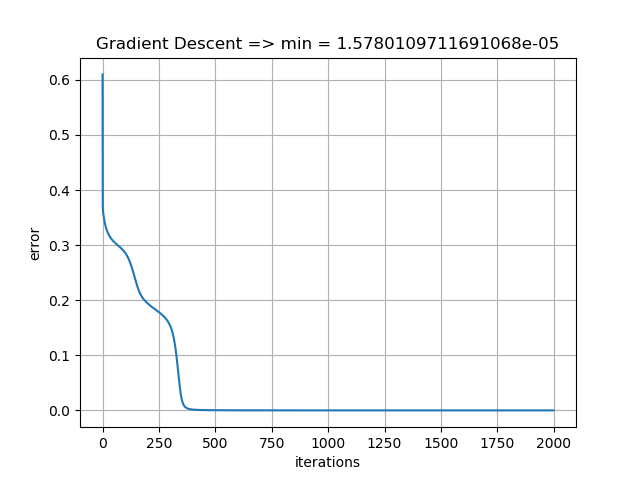
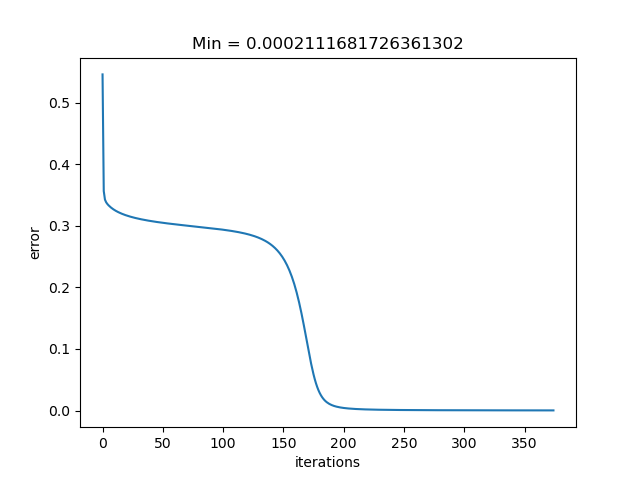
Uploaded

diff --git a/activations.py b/activations.py
@@ -1,6 +1,7 @@
 import numpy as np
 
 # activation functions and their derivative
+
 def tanh(x):
     return np.tanh(x)
 
@@ -8,7 +9,7 @@ def tanh_prime(x):
     return 1 - np.tanh(x) ** 2
 
 def sigmoid(x):
-    return 1 / (1 + np.exp(-x))
+    return 1 / 1 + np.exp(-x)
 
 def sigmoid_prime(x):
     return x * (1 - x)
@@ -18,31 +19,3 @@ def gauss(x):
 
 def gauss_prime(x):
    return -np.exp(-x)
-    
-
-
-
-def softmax(x):
-    e_x = np.exp(x - np.max(x))
-    return e_x / e_x.sum(axis=0)
-
-def Softmax(x):
-    """Compute softmax values for each sets of scores in x."""
-    return np.exp(x) / np.sum(np.exp(x), axis=0)
-
-def _softmax(z):
-    return (np.exp(z.T) / np.sum(np.exp(z), axis=1)).T
-
-def softmax_prime(z):
-    """Computes the gradient of the softmax function.
-    z: (T, 1) array of input values where the gradient is computed. T is the
-       number of output classes.
-    Returns D (T, T) the Jacobian matrix of softmax(z) at the given z. D[i, j]
-    is DjSi - the partial derivative of Si w.r.t. input j.
-    """
-    Sz = softmax(z)
-    # -SjSi can be computed using an outer product between Sz and itself. Then
-    # we add back Si for the i=j cases by adding a diagonal matrix with the
-    # values of Si on its diagonal.
-    D = -np.outer(Sz, Sz) + np.diag(Sz.flatten())
-    return D

diff --git a/utils.py b/utils.py
@@ -1,0 +1,13 @@
+# Print iterations progress
+def ProgressBar (
+    iteration, total, prefix = '', 
+    suffix = '', decimals = 1, 
+    length = 10, fill = '█', 
+    printEnd = "\r"):
+    percent = ("{0:." + str(decimals) + "f}").format(100 * (iteration / float(total)))
+    filledLength = int(length * iteration // total)
+    bar = fill * filledLength + ' ' * (length - filledLength)
+    print('\r %s |%s| %s%% -- err => %.7s' % (prefix, bar, percent, suffix), end = printEnd)
+    # Print New Line on Complete
+    if iteration == total: 
+        print()

diff --git a/run.py b/run.py
@@ -1,8 +1,6 @@
 import numpy as np
 from network import Network
-from layer import Layer, ActivationLayer
-from activations import *
-from losses import mse, mse_prime
+from base import *
 
 # training data
 xtrain = np.array([[0,0], [0,1], [1,0], [1,1]])
@@ -17,7 +15,7 @@ net.add(ActivationLayer(tanh, tanh_prime))
 
 # train
 net.loss_parameter(mse, mse_prime)
-net.train(xtrain, ytrain, epochs=2000, learning_rate=0.1, graphic=True)
+net.train(xtrain, ytrain, epochs=375, learning_rate=0.1, graphic=True)
 
 # test
 net.predict(xtrain)

diff --git a/base.py b/base.py
@@ -1,0 +1,3 @@
+from layer import Layer, ActivationLayer
+from activations import *
+from losses import mse, mse_prime

diff --git a/neurons.py b/neurons.py
@@ -1,4 +1,3 @@
-
 # Base class
 class Neurons:
 

diff --git a/README.md b/README.md
@@ -1,6 +1,6 @@
 # Feed Forward Neural Network
 
-Implemented a bit like a keras library. 
+Implemented just as an approach of keras. 
 
 For machine learning
 
